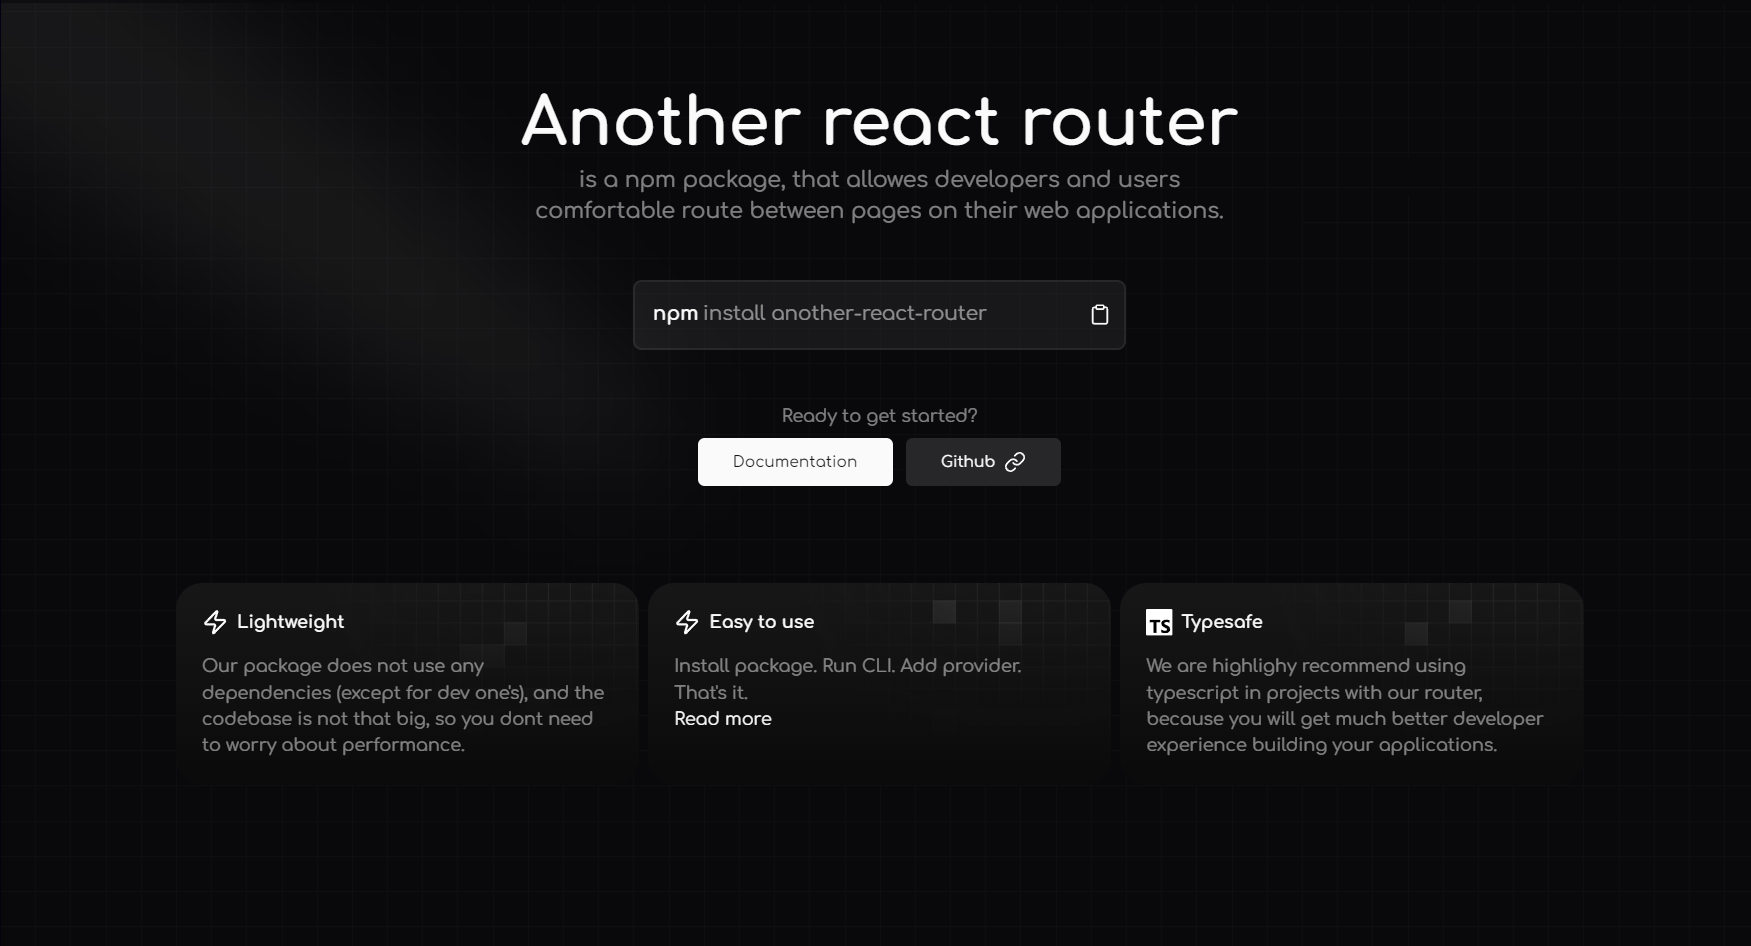
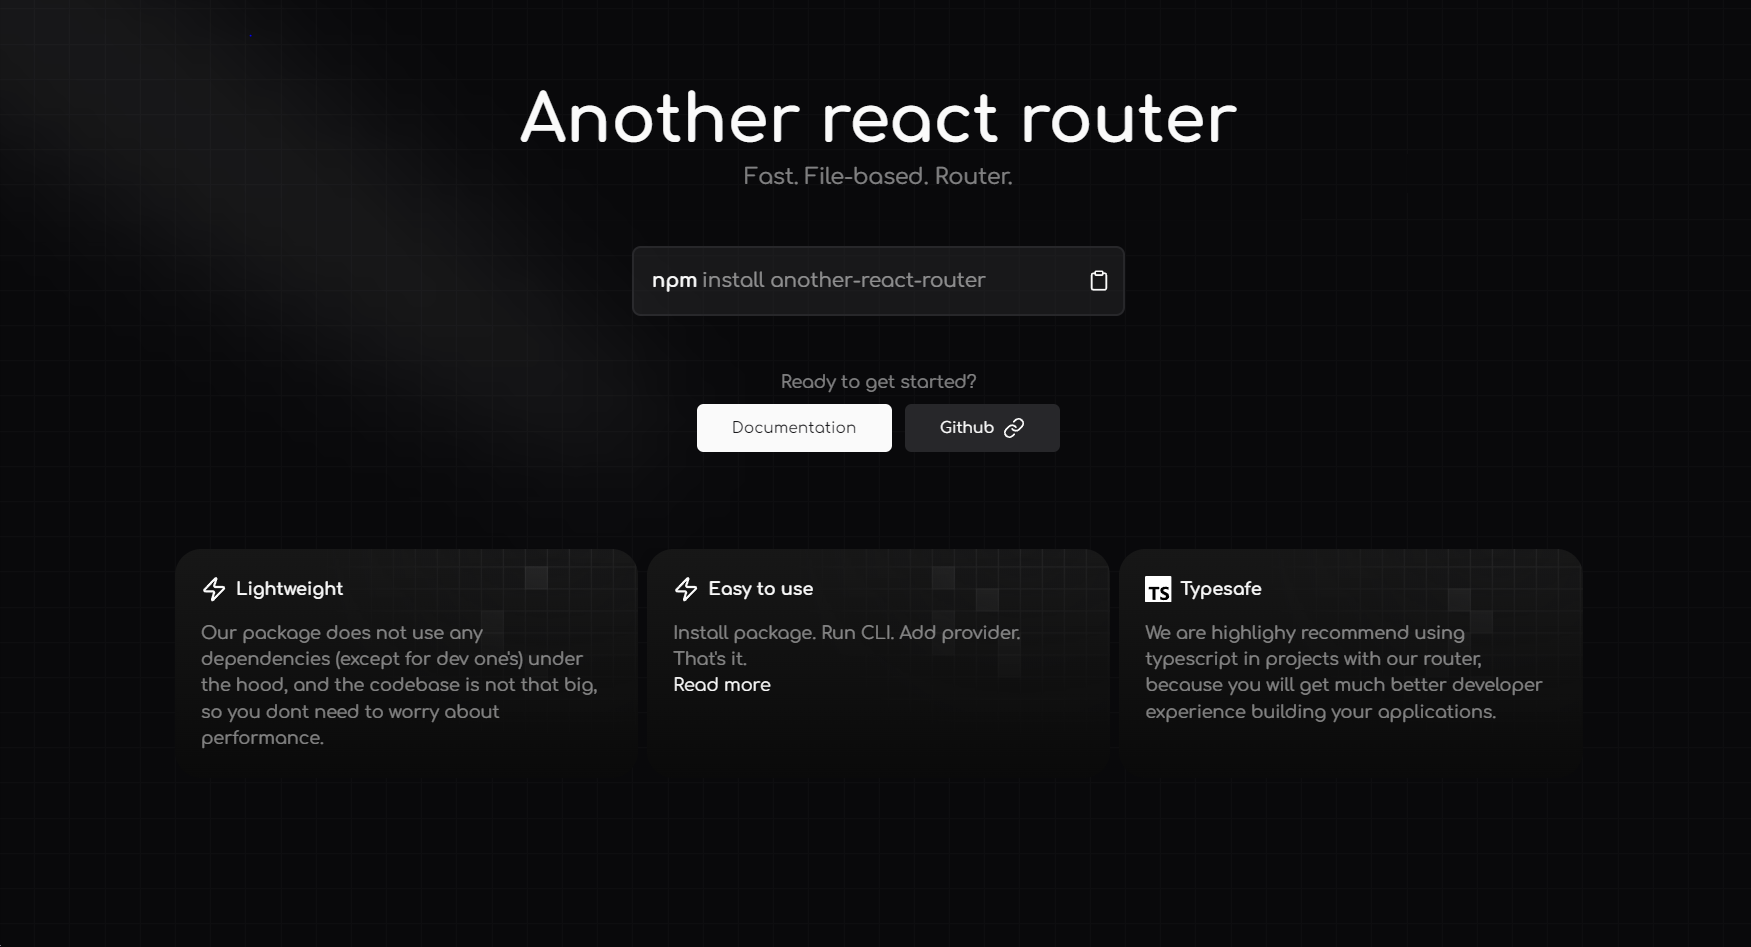
change description

diff --git a/docs/contentlayer.config.js b/docs/contentlayer.config.js
@@ -1,139 +1,138 @@
 import { defineDocumentType, makeSource } from "contentlayer2/source-files"
+import * as fs from "fs"
+import * as path from "path"
 import rehypeAutolinkHeadings from "rehype-autolink-headings"
 import rehypePrettyCode from "rehype-pretty-code"
 import rehypeSlug from "rehype-slug"
 import { codeImport } from "remark-code-import"
 import remarkGfm from "remark-gfm"
 import { visit } from "unist-util-visit"
-
 import { rehypeNpmCommand } from "./src/lib/rehype-npm-command"
-import * as path from "path"
-import * as fs from "fs"
 
 /** @type {import('contentlayer/source-files').ComputedFields} */
 const computedFields = {
-  slug: {
-    type: "string",
-    resolve: doc => `/${doc._raw.flattenedPath}`,
-  },
-  slugAsParams: {
-    type: "string",
-    resolve: doc => doc._raw.flattenedPath.split("/").slice(1).join("/"),
-  },
+	slug: {
+		type: "string",
+		resolve: doc => `/${doc._raw.flattenedPath}`
+	},
+	slugAsParams: {
+		type: "string",
+		resolve: doc => doc._raw.flattenedPath.split("/").slice(1).join("/")
+	}
 }
 /** @type {import('rehype-pretty-code').Options} */
 const rehypePrettyCodeOptions = {
-  theme: JSON.parse(
-    fs.readFileSync(
-      path.join(process.cwd(), "/src/lib/highlighter-theme.json"),
-      "utf-8"
-    )
-  ),
-  onVisitLine(node) {
-    // Prevent lines from collapsing in `display: grid` mode, and allow empty
-    // lines to be copy/pasted
-    if (node.children.length === 0) {
-      node.children = [{ type: "text", value: " " }]
-    }
-  },
-  onVisitHighlightedLine(node) {
-    const nodeClass = node.properties.className
-    if (nodeClass && nodeClass.length > 0) {
-      node.properties.className.push("line--highlighted")
-    } else {
-      node.properties.className = ["line--highlighted"]
-    }
-  },
-  onVisitHighlightedWord(node) {
-    node.properties.className = ["word--highlighted"]
-  },
+	theme: JSON.parse(
+		fs.readFileSync(
+			path.join(process.cwd(), "/src/lib/highlighter-theme.json"),
+			"utf-8"
+		)
+	),
+	onVisitLine(node) {
+		// Prevent lines from collapsing in `display: grid` mode, and allow empty
+		// lines to be copy/pasted
+		if (node.children.length === 0) {
+			node.children = [{ type: "text", value: " " }]
+		}
+	},
+	onVisitHighlightedLine(node) {
+		const nodeClass = node.properties.className
+		if (nodeClass && nodeClass.length > 0) {
+			node.properties.className.push("line--highlighted")
+		} else {
+			node.properties.className = ["line--highlighted"]
+		}
+	},
+	onVisitHighlightedWord(node) {
+		node.properties.className = ["word--highlighted"]
+	}
 }
 
 export const Doc = defineDocumentType(() => ({
-  name: "Doc",
-  filePathPattern: `docs/**/*.mdx`,
-  contentType: "mdx",
-  fields: {
-    title: {
-      type: "string",
-      required: true,
-    },
-    description: {
-      type: "string",
-      required: false,
-    },
-    toc: {
-      type: "boolean",
-      default: true,
-      required: false,
-    },
-  },
-  computedFields,
+	name: "Doc",
+	filePathPattern: `docs/**/*.mdx`,
+	contentType: "mdx",
+	fields: {
+		title: {
+			type: "string",
+			required: true
+		},
+		description: {
+			type: "string",
+			required: false
+		},
+		toc: {
+			type: "boolean",
+			default: true,
+			required: false
+		}
+	},
+	computedFields
 }))
 
 export default makeSource({
-  contentDirPath: `src/content`,
-  documentTypes: [Doc],
-  mdx: {
-    remarkPlugins: [remarkGfm, codeImport],
-    rehypePlugins: [
-      rehypeSlug,
-      () => tree => {
-        visit(tree, node => {
-          if (node?.type === "element" && node?.tagName === "pre") {
-            const [codeEl] = node.children
-            if (codeEl.tagName !== "code") {
-              return
-            }
+	contentDirPath: `src/content`,
+	documentTypes: [Doc],
+	mdx: {
+		remarkPlugins: [remarkGfm, codeImport],
+		rehypePlugins: [
+			rehypeSlug,
+			() => tree => {
+				visit(tree, node => {
+					if (node?.type === "element" && node?.tagName === "pre") {
+						const [codeEl] = node.children
+						if (codeEl.tagName !== "code") {
+							return
+						}
 
-            if (codeEl.data?.meta) {
-              // Extract event from meta and pass it down the tree.
-              const regex = /event="([^"]*)"/
-              const match = codeEl.data?.meta.match(regex)
-              if (match) {
-                node.__event__ = match ? match[1] : null
-                codeEl.data.meta = codeEl.data.meta.replace(regex, "")
-              }
-            }
+						if (codeEl.data?.meta) {
+							// Extract event from meta and pass it down the tree.
+							const regex = /event="([^"]*)"/
+							const match = codeEl.data?.meta.match(regex)
+							if (match) {
+								node.__event__ = match ? match[1] : null
+								codeEl.data.meta = codeEl.data.meta.replace(regex, "")
+							}
+						}
 
-            node.__rawString__ = codeEl.children?.[0].value
-            node.__src__ = node.properties?.__src__
-          }
-        })
-      },
-      [rehypePrettyCode, rehypePrettyCodeOptions],
-      () => tree => {
-        visit(tree, node => {
-          if (node?.type === "element" && node?.tagName === "figure") {
-            if (!("data-rehype-pretty-code-figure" in node.properties)) return
+						node.__rawString__ = codeEl.children?.[0].value
+						node.__src__ = node.properties?.__src__
+					}
+				})
+			},
+			[rehypePrettyCode, rehypePrettyCodeOptions],
+			() => tree => {
+				visit(tree, node => {
+					if (node?.type === "element" && node?.tagName === "figure") {
+						if (!("data-rehype-pretty-code-figure" in node.properties)) return
 
-            const preElement = node.children[0]
-            if (preElement.tagName !== "pre") {
-              return
-            }
+						const preElement = node.children[0]
+						if (preElement.tagName !== "pre") {
+							return
+						}
 
-            preElement.properties["__rawString__"] = node.__rawString__
+						preElement.properties["__rawString__"] = node.__rawString__
 
-            if (node.__src__) {
-              preElement.properties["__src__"] = node.__src__
-            }
+						if (node.__src__) {
+							preElement.properties["__src__"] = node.__src__
+						}
 
-            if (node.__style__) {
-              preElement.properties["__style__"] = node.__style__
-            }
-          }
-        })
-      },
-      rehypeNpmCommand,
-      [
-        rehypeAutolinkHeadings,
-        {
-          properties: {
-            className: ["subheading-anchor"],
-            ariaLabel: "Link to section",
-          },
-        },
-      ],
-    ],
-  },
+						if (node.__style__) {
+							preElement.properties["__style__"] = node.__style__
+						}
+					}
+				})
+			},
+			rehypeNpmCommand,
+			[
+				rehypeAutolinkHeadings,
+				{
+					properties: {
+						className: ["subheading-anchor"],
+						ariaLabel: "Link to section"
+					}
+				}
+			]
+		]
+	}
 })

diff --git a/docs/src/app/page.tsx b/docs/src/app/page.tsx
@@ -22,7 +22,7 @@ const homeFeatures: HomeFeature[] = [
 	{
 		title: "Lightweight",
 		description:
-			"Our package does not use any dependencies (except for dev one's), and the codebase is not that big, so you dont need to worry about performance.",
+			"Our package does not use any dependencies (except for dev one's) under the hood, and the codebase is not that big, so you dont need to worry about performance.",
 		icon: <Zap />
 	},
 	{
@@ -50,23 +50,20 @@ export default function Home() {
 	return (
 		<div className="container md:mt-20 mt-10 relative flex flex-col items-center gap-2">
 			<h1 className="text-center lg:text-6xl md:text-5xl text-3xl font-bold">
-				<Balancer>Another react router</Balancer>
+				<Balancer>{siteConfig.name}</Balancer>
 			</h1>
 			<h2 className="text-center text-base sm:text-lg md:text-xl text-foreground/50 max-w-[40rem] mx-auto">
-				<Balancer>
-					is a npm package, that allowes developers and users comfortable route
-					between pages on their web applications.
-				</Balancer>
+				<Balancer>{siteConfig.description}</Balancer>
 			</h2>
 			<div className="my-4 md:my-10 flex gap-1 items-center p-2 max-[400px]:text-[0.885rem] md:text-lg md:p-4 bg-muted/50 rounded-lg lg:w-[28rem] md:w-[24rem] w-[20rem] max-[400px]:w-full max-[400px]:justify-center text-nowrap  overflow-hidden relative text-base dark:border-border border-border/50 border-2">
-				<span className="font-bold hidden min-[400px]:inline">npm</span>
-				<span className="text-foreground/[0.533] hidden min-[400px]:inline">
+				<span className="font-bold">npm</span>
+				<span className="text-foreground/[0.533]">
 					install another-react-router
 				</span>
-				<span className="font-bold min-[400px]:hidden inline">bun</span>
+				{/* <span className="font-bold min-[400px]:hidden inline">bun</span>
 				<span className="text-foreground/[0.533] min-[400px]:hidden inline">
 					add another-react-router
-				</span>
+				</span> */}
 				<CopyCommandButton
 					className="w-7 h-7 absolute right-2 top-1/2 -translate-y-1/2 max-[400px]:hidden"
 					iconClassName="w-5 h-5"

diff --git a/docs/src/config/site.ts b/docs/src/config/site.ts
@@ -4,8 +4,7 @@ export const siteConfig = {
 	name: "Another react router",
 	url: "https://another-react-router.vercel.app",
 	author: "Fesyse",
-	description:
-		"Another react router is a npm package, that allowes developers and users comfortable route between pages on their web applications.",
+	description: "Fast. File-based. Router.",
 	links: {
 		github: "https://github.com/fesyse/another-react-router/"
 	},
@@ -25,7 +24,7 @@ export const siteMetadata: Metadata = {
 		title: "Another react router",
 		description: siteConfig.description,
 		images: [siteConfig.ogImage],
-		creator: "@shadcn"
+		creator: "@fesyse"
 	},
 	authors: {
 		name: "Another react router team",

diff --git a/README.md b/README.md
@@ -21,13 +21,13 @@ Create directory where all of your routes will be located
 for example:
 
 ```json
-[
-  "src": [
+{
+  "src": {
     "routes": [
       "page.tsx"
     ]
-  ],
-]
+  },
+}
 ```
 
 Create a file with name `page.tsx` and add the following code:
